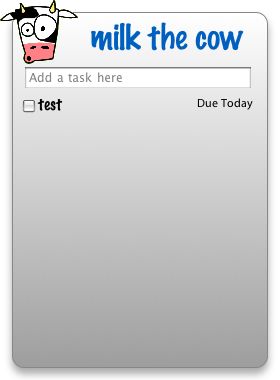
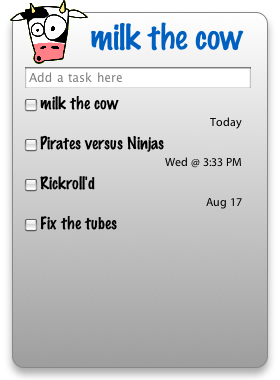
update preview image

diff --git a/Milk the Cow.wdgt/milkthecow.html b/Milk the Cow.wdgt/milkthecow.html
@@ -29,7 +29,10 @@
 		</div>
 		<div id="listDiv">
 			<ul id="taskList">
-				<li><input type="checkbox" />test<span class="duedate">Due Today</span></li>
+				<li><input type="checkbox" />milk the cow<span class="duedate">Today</span></li>
+				<li><input type="checkbox" />Pirates versus Ninjas<span class="duedate">Wed @ 3:33 PM</span></li>
+				<li><input type="checkbox" />Rickroll'd<span class="duedate">Aug 17</span></li>
+				<li><input type="checkbox" />Fix the tubes<span class="duedate"></span></li>
 			</ul>
 		</div>
 		<div id="listScrollbar"></div>
